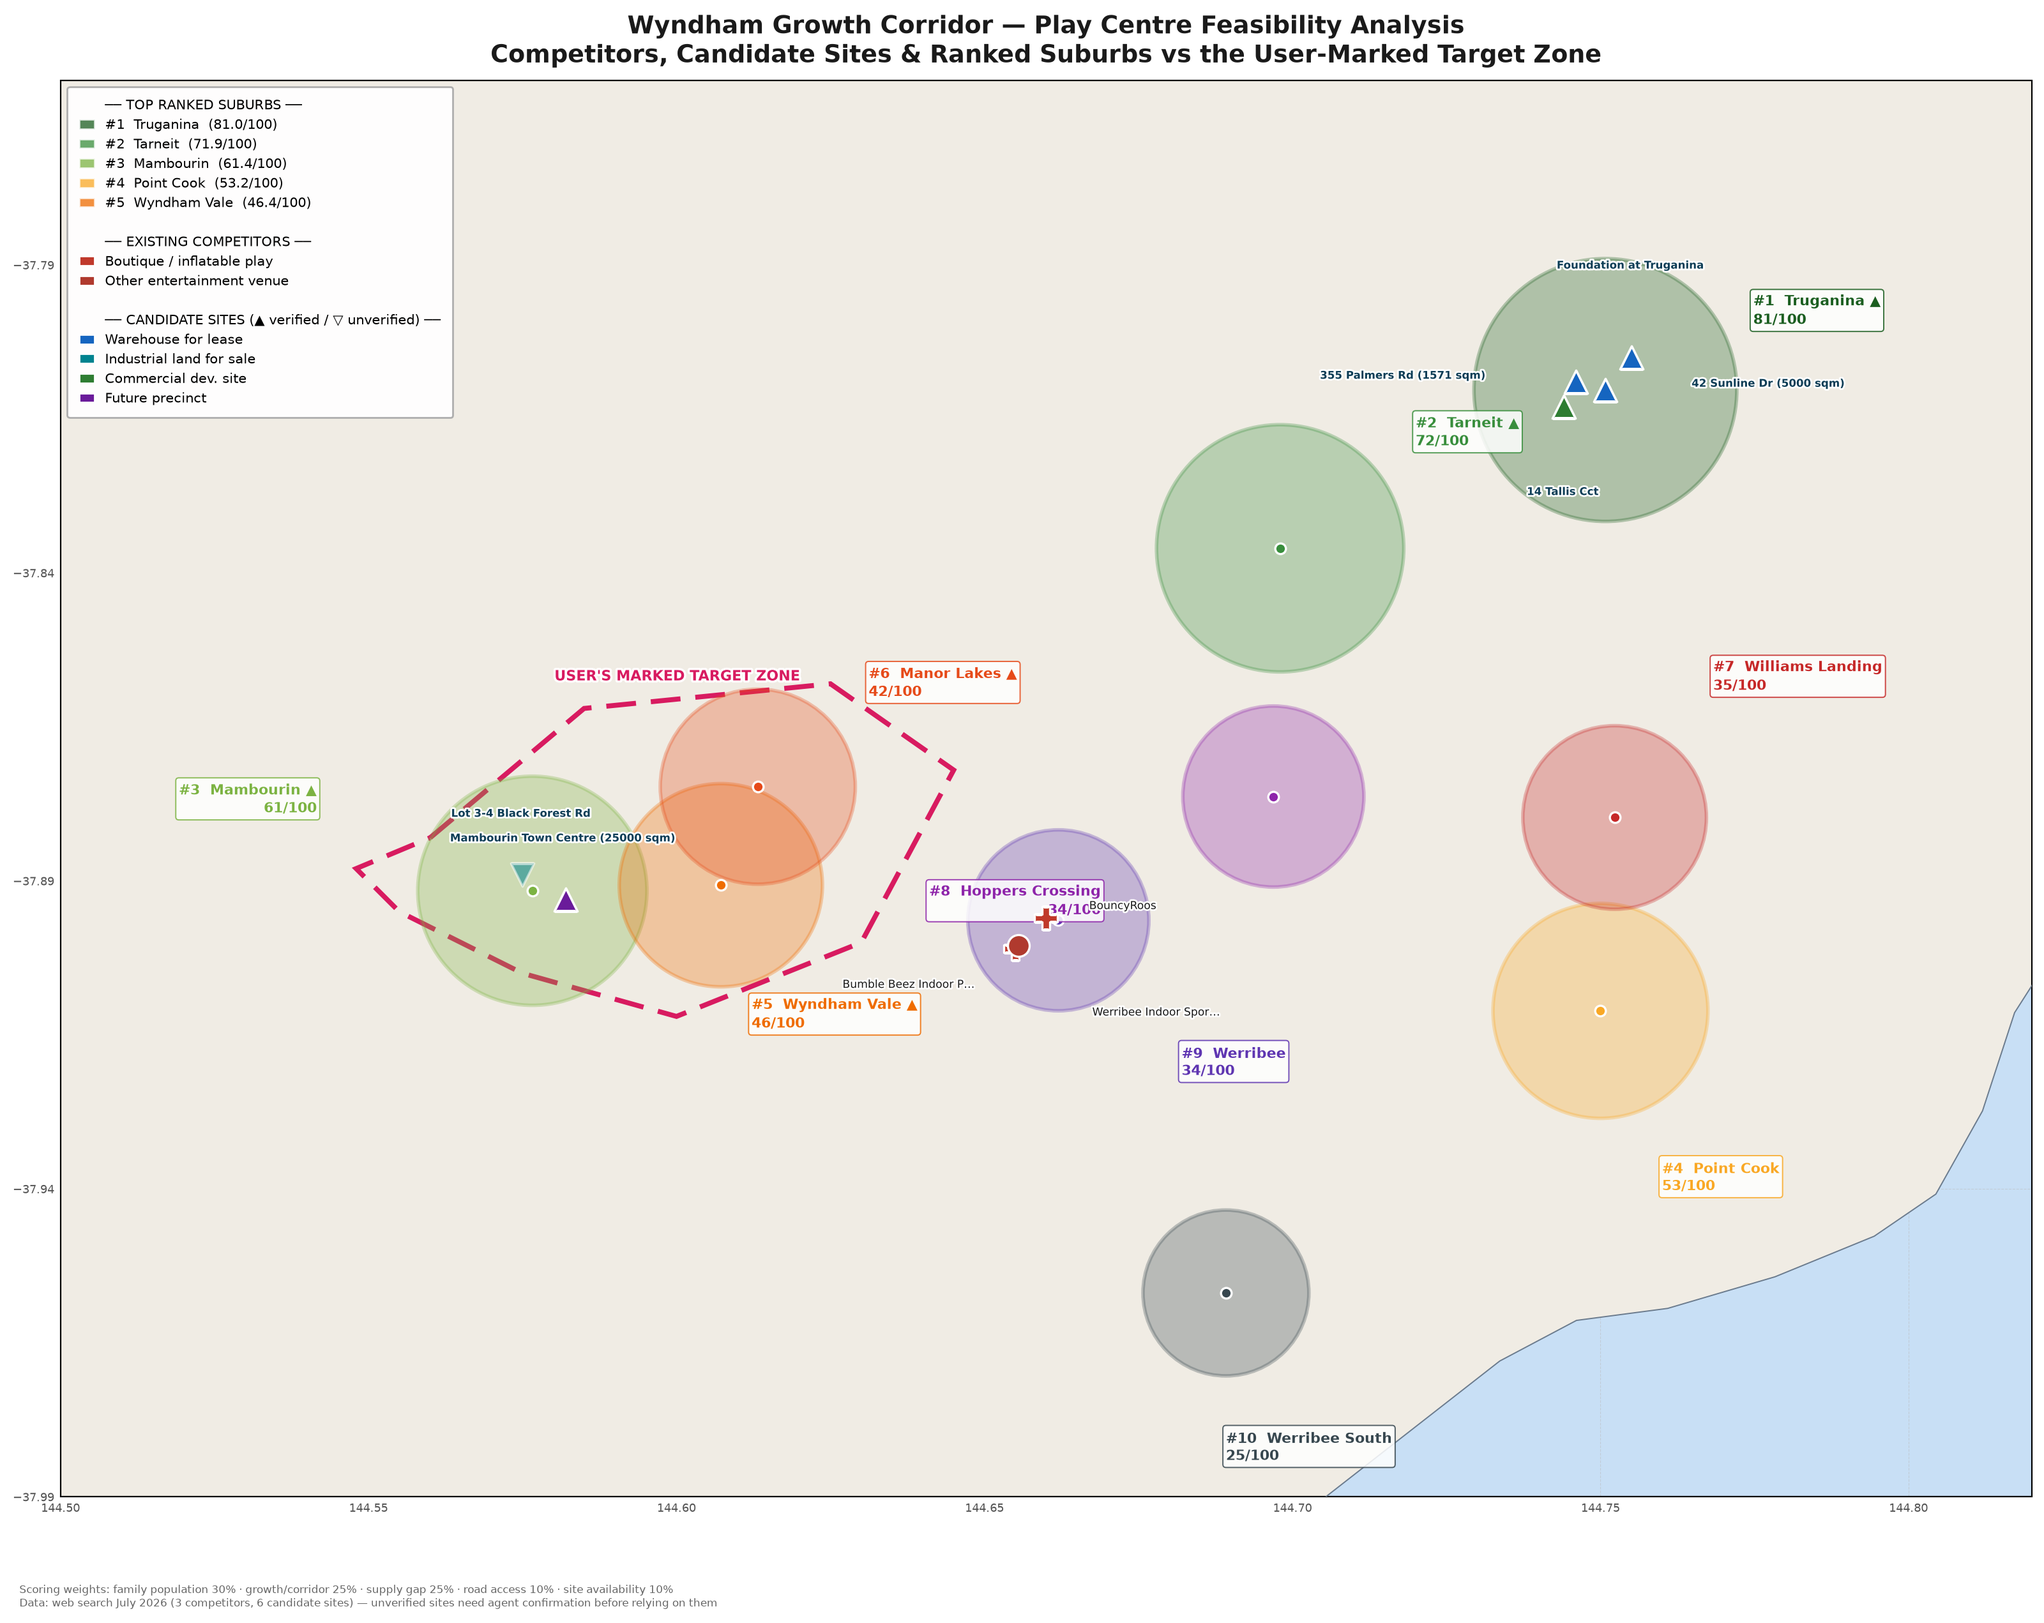
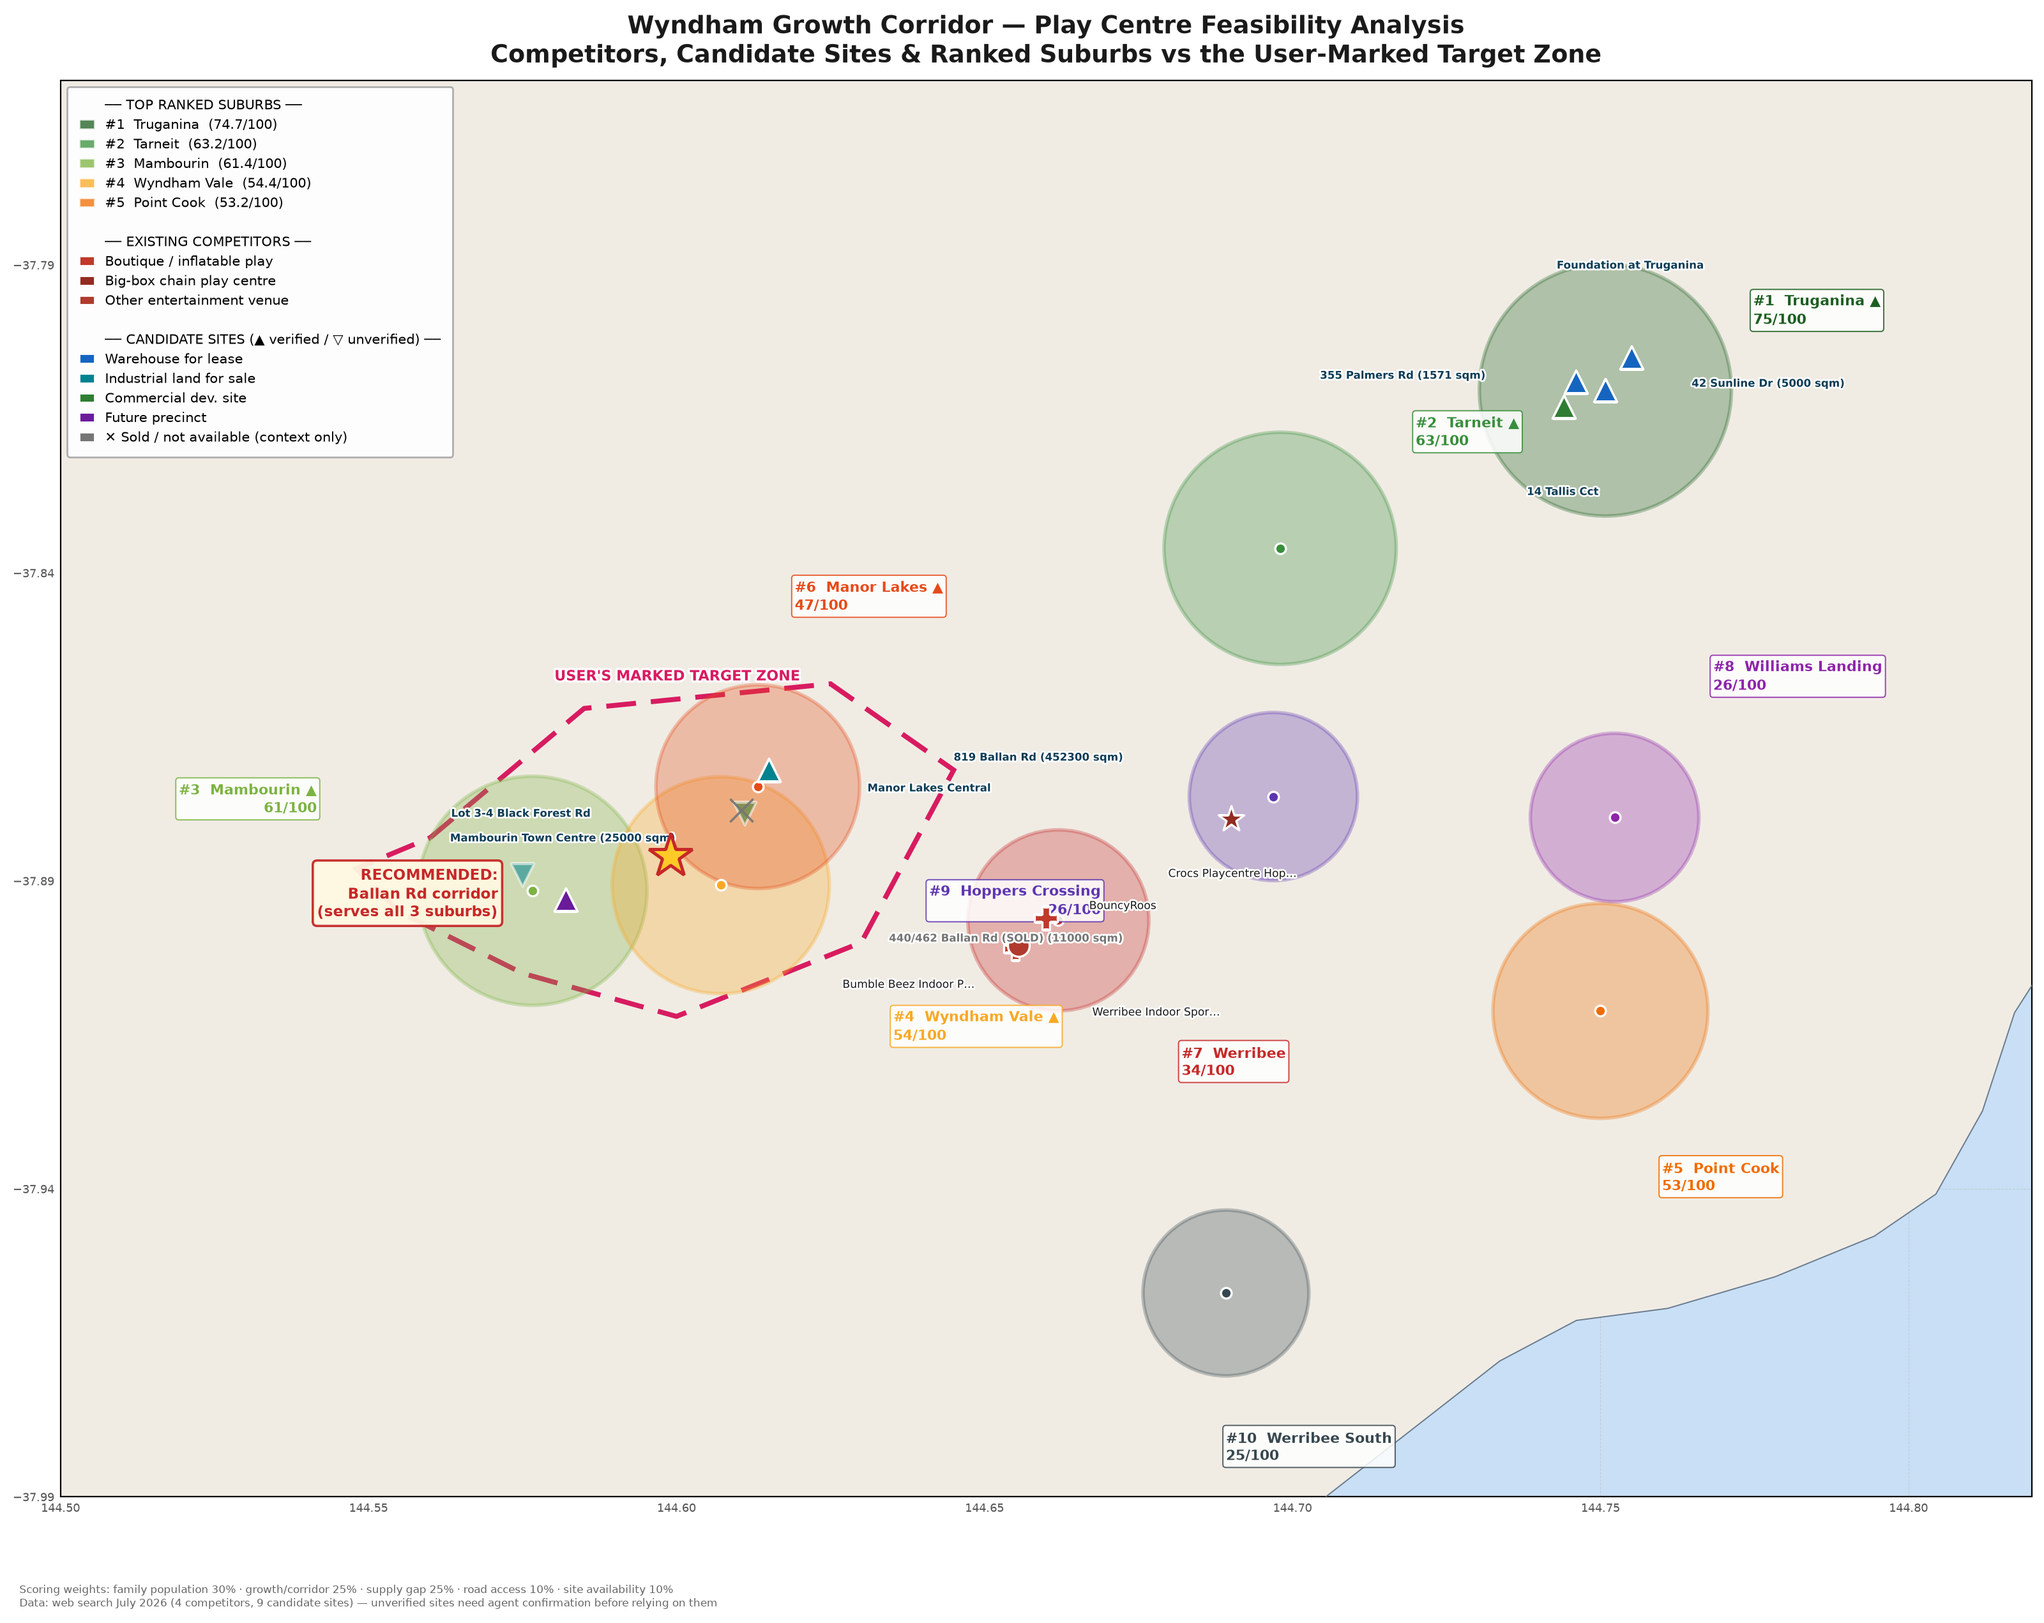
Correct play centre analysis with local knowledge: add Crocs competitor, recommend Ballan Rd tri-suburb site
User feedback after reviewing the report identified two gaps:
1. Crocs Playcentre Hoppers Crossing (57-69 Forsyth Rd) was missing from the
   competitor list. It's a genuine big-box chain (not boutique/inflatable)
   already servicing the Truganina/Palmers Rd corridor (~8.6km away),
   undermining that site's supply-gap rationale.
2. The user wants a site literally central to Mambourin, Wyndham Vale, and
   Manor Lakes to serve all three at once - not a site in a different,
   disconnected part of the corridor.

Changes:
- seed_playcentre_data.py: added Crocs as a big_box_chain competitor, plus
  3 real candidate sites on the Ballan Road corridor (the arterial connecting
  Wyndham Vale and Manor Lakes, sitting almost exactly on the geometric
  centroid of all three target suburbs): Manor Lakes Central (established
  anchor shopping centre with retail space for lease, unverified detail),
  440/462 Ballan Rd (2.15ha approved for large-format retail, but sold
  off-market Aug 2025 - included only as a market-validation signal, clearly
  flagged unavailable), and 819 Ballan Rd (45ha vacant parcel, worth asking
  about subdivision).
- analysis.py: added an explicit "PRIMARY RECOMMENDATION" section ahead of
  the automated per-suburb ranking, since that ranking scores each suburb
  independently and structurally cannot express "one site serving three
  suburbs." This section directly recommends the Ballan Rd corridor and
[…]

diff --git a/generate_playcentre_map.py b/generate_playcentre_map.py
@@ -65,8 +65,8 @@ SITE_CFG = {
 
 SUBURB_LABEL_OFFSETS = {
     'Mambourin':        (-0.035,  0.012),
-    'Manor Lakes':      ( 0.018,  0.014),
-    'Wyndham Vale':     ( 0.005, -0.018),
+    'Manor Lakes':      ( 0.006,  0.028),
+    'Wyndham Vale':     ( 0.028, -0.020),
     'Werribee':         ( 0.020, -0.020),
     'Werribee South':   ( 0.000, -0.022),
     'Tarneit':          ( 0.022,  0.016),
@@ -121,6 +121,22 @@ ax.text(144.600, -37.858, "USER'S MARKED TARGET ZONE",
         fontsize=8, fontweight='bold', color='#d81b60',
         ha='center', va='bottom', transform=PROJ, zorder=11,
         path_effects=[pe.withStroke(linewidth=2.5, foreground='white')])
+
+# ─── recommended tri-suburb centre point ───────────────────────────────────
+# Geometric centroid of Mambourin / Wyndham Vale / Manor Lakes, which sits on
+# the Ballan Road corridor — the primary recommendation for a single site
+# serving all three suburbs (see report's "PRIMARY RECOMMENDATION" section).
+centre_lng, centre_lat = 144.599, -37.886
+ax.plot(centre_lng, centre_lat, marker='*', markersize=26, color='#ffca28',
+        markeredgecolor='#c62828', markeredgewidth=1.8, transform=PROJ, zorder=20)
+rec_txt = ax.text(
+    centre_lng - 0.028, centre_lat - 0.006,
+    'RECOMMENDED:\nBallan Rd corridor\n(serves all 3 suburbs)',
+    fontsize=8.2, fontweight='bold', color='#c62828',
+    ha='right', va='center', transform=PROJ, zorder=20, linespacing=1.3,
+    bbox=dict(boxstyle='round,pad=0.3', facecolor='#fff8e1', alpha=0.95,
+              edgecolor='#c62828', linewidth=1.3),
+)
 
 # ─── suburb score circles ──────────────────────────────────────────────────
 for name, rank, score, lat, lng, is_corr, min_dist in suburbs:
@@ -181,29 +197,45 @@ SITE_SHORT_NAMES = {
     'Warehouse/Showroom/Retail Space – 14 Tallis Circuit': '14 Tallis Cct',
     'Land/Development Site – Lot 3-4, 440 Black Forest Rd / 323 Greens Rd': 'Lot 3-4 Black Forest Rd',
     'Mambourin Town Centre (future precinct)': 'Mambourin Town Centre',
+    'Manor Lakes Central (retail space for lease)': 'Manor Lakes Central',
+    '440 & 462 Ballan Rd / 2 Hirata Blvd (recently sold, market signal only)': '440/462 Ballan Rd (SOLD)',
+    '819 Ballan Rd, Manor Lakes (large vacant parcel)': '819 Ballan Rd',
 }
 SITE_LABEL_OFFSETS = {
     'Foundation at Truganina (Dexus industrial estate)':   (0, 0.014, 'center', 'bottom'),
     'Industrial/Warehouse Space – 355 Palmers Rd':          (-0.014, 0.001, 'right', 'center'),
     'Industrial/Warehouse Space – 42 Sunline Drive':        (0.014, 0.001, 'left', 'center'),
     'Warehouse/Showroom/Retail Space – 14 Tallis Circuit':  (0, -0.013, 'center', 'top'),
+    'Manor Lakes Central (retail space for lease)':         (0.020, 0.004, 'left', 'center'),
+    '440 & 462 Ballan Rd / 2 Hirata Blvd (recently sold, market signal only)': (0.024, -0.020, 'left', 'top'),
+    '819 Ballan Rd, Manor Lakes (large vacant parcel)':     (0.030, 0.002, 'left', 'center'),
 }
+# Sites that are confirmed NOT available (e.g. sold off-market) get a distinct
+# grey "X" marker regardless of their verified flag, so the map never implies
+# they're a live option.
+SITE_UNAVAILABLE = {'440 & 462 Ballan Rd / 2 Hirata Blvd (recently sold, market signal only)'}
 
 plotted_site_types = set()
 for name, lat, lng, stype, size_sqm, verified in sites:
     lat, lng = float(lat), float(lng)
     cfg = SITE_CFG.get(stype, SITE_CFG['warehouse_lease'])
     lbl = cfg['label'] if stype not in plotted_site_types else '_nolegend_'
-    marker_style = '^' if verified else 'v'
-    ax.scatter(lng, lat, c=cfg['color'], marker=marker_style, s=170,
+    if name in SITE_UNAVAILABLE:
+        marker_style, marker_color, marker_alpha = 'x', '#757575', 0.9
+        lbl = '_nolegend_'
+    else:
+        marker_style = '^' if verified else 'v'
+        marker_color, marker_alpha = cfg['color'], (1.0 if verified else 0.55)
+    ax.scatter(lng, lat, c=marker_color, marker=marker_style, s=170,
                edgecolors='white', linewidths=1.3, transform=PROJ, zorder=12,
-               alpha=1.0 if verified else 0.55, label=lbl)
+               alpha=marker_alpha, label=lbl)
     plotted_site_types.add(stype)
     short = SITE_SHORT_NAMES.get(name, name if len(name) < 26 else name[:24] + '…')
     size_str = ' ({} sqm)'.format(size_sqm) if size_sqm else ''
+    label_color = '#757575' if name in SITE_UNAVAILABLE else '#0d3d56'
     dx, dy, ha, va = SITE_LABEL_OFFSETS.get(name, (0, 0.009, 'center', 'bottom'))
     t = ax.text(lng + dx, lat + dy, short + size_str, fontsize=6.0, ha=ha, va=va,
-                color='#0d3d56', fontweight='bold', transform=PROJ, zorder=13)
+                color=label_color, fontweight='bold', transform=PROJ, zorder=13)
     t.set_path_effects([pe.withStroke(linewidth=2, foreground='white')])
 
 # ─── legend ────────────────────────────────────────────────────────────────
@@ -226,6 +258,8 @@ legend_handles.append(mpatches.Patch(facecolor='none', edgecolor='none', label='
 for stype, cfg in SITE_CFG.items():
     if stype in plotted_site_types:
         legend_handles.append(mpatches.Patch(facecolor=cfg['color'], edgecolor='white', label=cfg['label']))
+if any(s[0] in SITE_UNAVAILABLE for s in sites):
+    legend_handles.append(mpatches.Patch(facecolor='#757575', edgecolor='white', label='✕ Sold / not available (context only)'))
 
 leg = ax.legend(
     handles=legend_handles, loc='upper left', fontsize=7.6,

diff --git a/playcentre/management/commands/seed_playcentre_data.py b/playcentre/management/commands/seed_playcentre_data.py
@@ -82,6 +82,15 @@ COMPETITOR_DATA = [
      -37.8960, 144.6600,
      'boutique_inflatable',
      'Indoor Play,Cafe,Birthday Parties'),
+
+    # Added per local knowledge (user correction, July 2026): a genuine big-box
+    # chain, not boutique/inflatable — confirmed via web search. This already
+    # services the Truganina/Palmers Rd corridor (~8.6km from that site).
+    ('Crocs Playcentre Hoppers Crossing',
+     '57-69 Forsyth Rd', 'Hoppers Crossing',
+     -37.8800, 144.6900,
+     'big_box_chain',
+     'Toddler Area,Ball Cannon Towers,Giant Bouncy Pillow,Mini Tramp,Climbing Wall,Party Rooms,Cafe'),
 ]
 
 
@@ -150,6 +159,51 @@ CANDIDATE_SITE_DATA = [
      'https://www.dexus.com/leasing/industrial/properties/foundation-at-truganina.html',
      True,
      'Large-format estate (units generally 11,000-15,000 sqm) — likely oversized unless subdivided.'),
+
+    # --- Ballan Road corridor sites, added per user request July 2026 ---
+    # Ballan Road is the arterial physically connecting Wyndham Vale and Manor
+    # Lakes, and sits almost exactly on the geometric centroid of Mambourin /
+    # Wyndham Vale / Manor Lakes (~-37.886, 144.599). This is the practical,
+    # real-world equivalent of "a site central to all three suburbs."
+    ('Manor Lakes Central (retail space for lease)',
+     '455 Ballan Rd', 'Wyndham Vale',
+     -37.8790, 144.6110,
+     'commercial_dev_site', None, 'Contact agent (Colliers)',
+     'Established sub-regional shopping centre (Coles, Kmart, Best & Less, Anytime '
+     'Fitness, ~20,000 sqm GLA); zoned for retail/commercial use',
+     'https://www.colliers.com.au/en-au/properties/expanding-the-manor/aus-manor-lakes-central-455-ballan-road-wyndham-vale-vic-3024/aus66004486',
+     False,
+     'DIRECTLY ON BALLAN ROAD, the corridor connecting Wyndham Vale and Manor Lakes, '
+     'near the geometric centre of Mambourin/Wyndham Vale/Manor Lakes. Co-locating '
+     'adjacent to this established anchor centre would capture existing family foot '
+     'traffic from all three suburbs. Colliers lists retail space for lease here but '
+     'the detail page blocked automated retrieval — confirm current availability '
+     'and tenancy size with the agent directly.'),
+
+    ('440 & 462 Ballan Rd / 2 Hirata Blvd (recently sold, market signal only)',
+     '440 & 462 Ballan Rd, 2 Hirata Blvd', 'Wyndham Vale',
+     -37.8785, 144.6105,
+     'commercial_dev_site', 11000, 'Sold off-market, settlement Aug 2025 — NOT available',
+     '2.15 ha, zoned mixed-use, approved for up to 11,000 sqm large-format retail; '
+     'directly opposite Manor Lakes Central',
+     'https://www.cushmanwakefield.com/en/australia/properties/for-sale/landdevelopment',
+     True,
+     'NOT AN AVAILABLE SITE — sold off-market (settlement Aug 2025). Included only as '
+     'a market signal: confirms developers are already actively targeting this exact '
+     'Ballan Rd corridor for large-format retail, validating the tri-suburb thesis '
+     'even though this specific parcel is gone.'),
+
+    ('819 Ballan Rd, Manor Lakes (large vacant parcel)',
+     '819 Ballan Rd', 'Manor Lakes',
+     -37.8720, 144.6150,
+     'industrial_land_sale', 452300, 'Contact agent',
+     '45.23 hectares vacant land, opposite Jubilee Estate, near Wyndham Vale station '
+     'and Manor Lakes Shopping Centre',
+     'https://www.domain.com.au/819-ballan-road-manor-lakes-vic-3024-2019677645',
+     True,
+     'Far larger than needed (45+ ha) — likely a master-planned parcel awaiting '
+     'subdivision. Worth inquiring whether a 2,000-5,000 sqm lot could be carved out, '
+     'given its excellent position near the Wyndham Vale/Manor Lakes boundary.'),
 ]
 
 

diff --git a/playcentre/analysis.py b/playcentre/analysis.py
@@ -184,7 +184,48 @@ def generate_report(results, top_n=5):
     lines.append('  Generated: {}'.format(date.today().strftime('%d %B %Y')))
     lines.append('=' * 68)
     lines.append('')
-    lines.append('TOP {} RECOMMENDED SUBURBS FOR BIG-BOX PLAY CENTRE DEVELOPMENT'.format(top_n))
+    lines.append('PRIMARY RECOMMENDATION: TRI-SUBURB CENTRE SITE')
+    lines.append('(Serving Mambourin, Wyndham Vale & Manor Lakes from one location)')
+    lines.append('-' * 68)
+    lines.append('')
+    lines.append('IMPORTANT: the automated per-suburb ranking below scores each suburb')
+    lines.append('independently and cannot express "one site serving three suburbs at')
+    lines.append('once." For that specific goal, the recommendation is:')
+    lines.append('')
+    lines.append('  >>> BALLAN ROAD CORRIDOR, WYNDHAM VALE (near Manor Lakes Central) <<<')
+    lines.append('')
+    lines.append('  Ballan Road is the arterial that physically connects Wyndham Vale')
+    lines.append('  and Manor Lakes, and sits almost exactly on the geometric centre of')
+    lines.append('  Mambourin / Wyndham Vale / Manor Lakes (approx -37.886, 144.599).')
+    lines.append('  It is also an active, real commercial corridor:')
+    lines.append('')
+    lines.append('  - Manor Lakes Central, 455 Ballan Rd: established shopping centre')
+    lines.append('    (Coles, Kmart, Best & Less, Anytime Fitness, ~20,000 sqm GLA).')
+    lines.append('    Colliers currently lists retail space for lease here. Co-locating')
+    lines.append('    adjacent to this anchor captures existing family foot traffic from')
+    lines.append('    all three suburbs at once. [UNVERIFIED — detail page blocked')
+    lines.append('    automated retrieval; confirm current tenancy size with the agent]')
+    lines.append('  - 440 & 462 Ballan Rd / 2 Hirata Blvd: 2.15 ha, approved for up to')
+    lines.append('    11,000 sqm large-format retail, directly opposite Manor Lakes')
+    lines.append('    Central. SOLD off-market (settlement Aug 2025) — NOT available,')
+    lines.append('    but confirms developers are already targeting this exact corridor.')
+    lines.append('  - 819 Ballan Rd, Manor Lakes: 45.23 ha vacant land nearby — likely')
+    lines.append('    a master-planned parcel; worth asking whether a smaller lot can')
+    lines.append('    be carved out.')
+    lines.append('')
+    lines.append('  NOTE ON TRUGANINA/TARNEIT: these still score highest in the raw')
+    lines.append('  per-suburb model below, largely on verified warehouse availability.')
+    lines.append('  But they sit outside the Mambourin/Wyndham Vale/Manor Lakes pocket')
+    lines.append('  entirely (10-20 km away) and do not serve that catchment — and per')
+    lines.append('  local knowledge, Crocs Playcentre in Hoppers Crossing already')
+    lines.append('  covers the Truganina/Palmers Rd corridor, which the model')
+    lines.append('  under-weighted before this competitor was added. If your goal is')
+    lines.append('  specifically to serve Mambourin + Wyndham Vale + Manor Lakes, the')
+    lines.append('  Ballan Road corridor above is the right answer, not Truganina.')
+    lines.append('')
+    lines.append('=' * 68)
+    lines.append('')
+    lines.append('TOP {} RECOMMENDED SUBURBS (AUTOMATED PER-SUBURB MODEL)'.format(top_n))
     lines.append('-' * 68)
     lines.append('')
 
